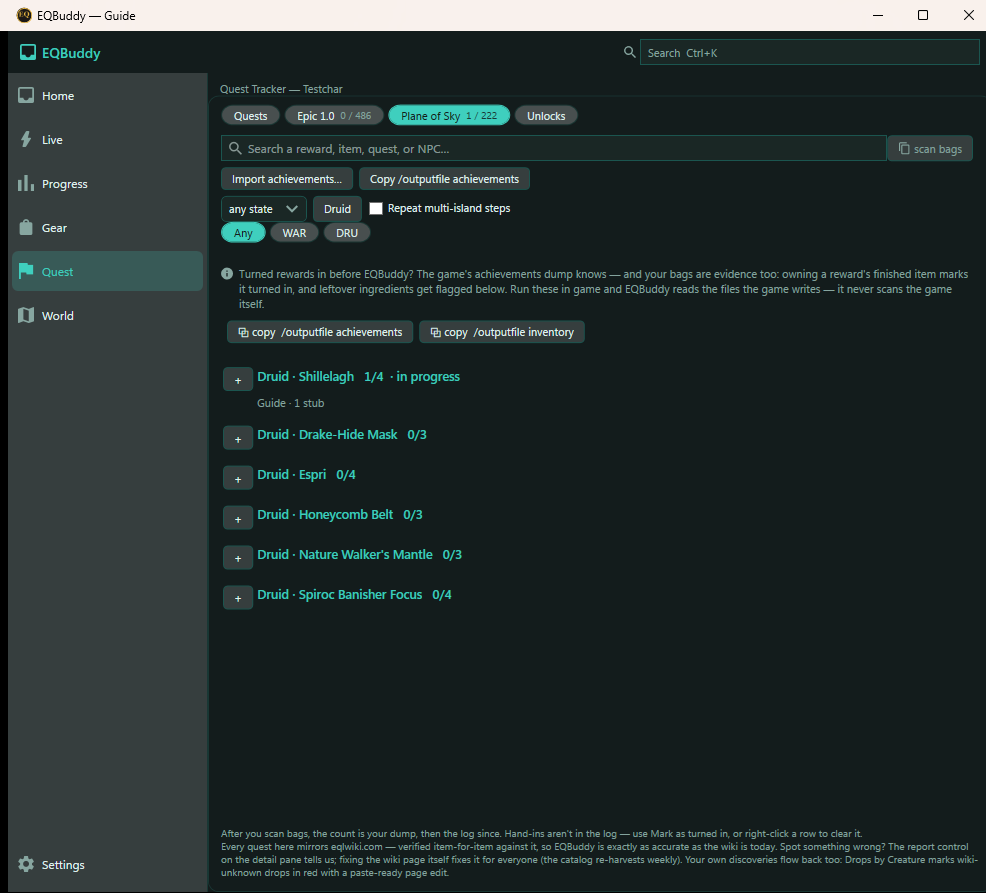
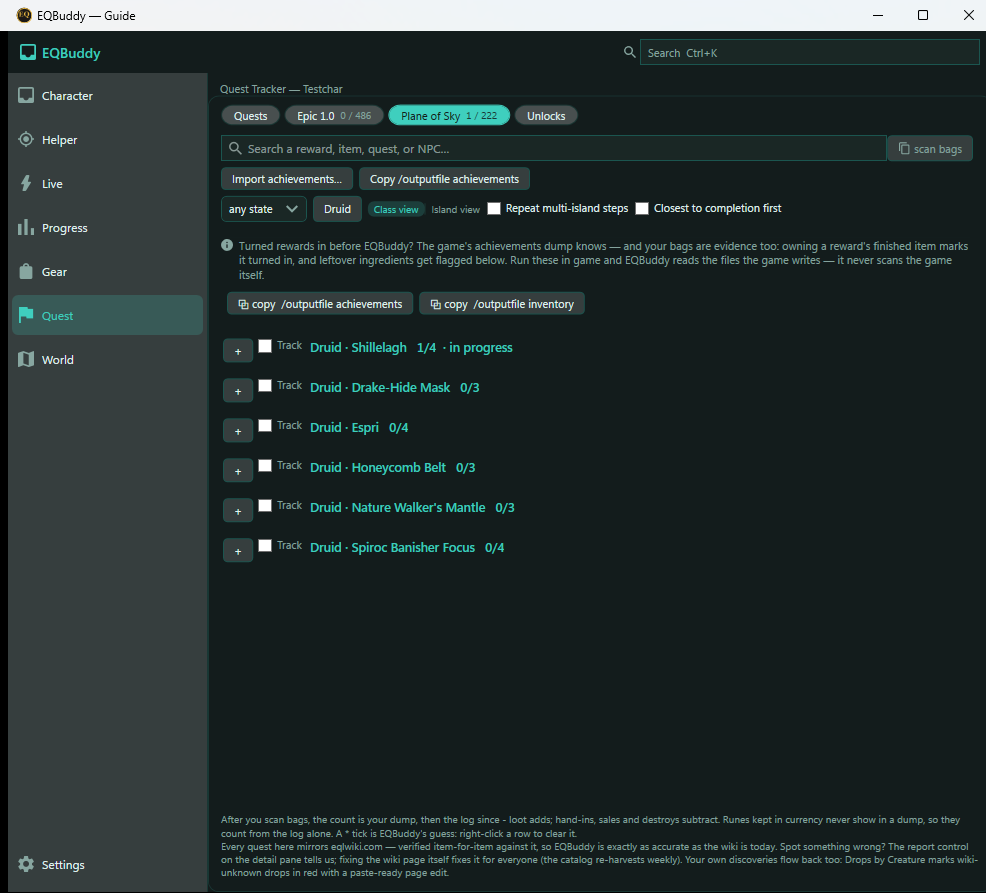
test(screenshots): DRA-4211 - re-shoot Sky guides with WhileHere hidden
The open While you're here block pushed the predicted rows out of a frame already at the 1000px ceiling. Folding left the departure notice, which still hid Island 6, so these three shots set EQBUDDY_WHILE_HERE=off.

diff --git a/src/EQBuddy/WhileHereView.cs b/src/EQBuddy/WhileHereView.cs
@@ -32,7 +32,13 @@ internal sealed class WhileHereView : Border
     private readonly TextBlock _heading;
     private readonly Button _fold;
     private string _signature = "";
-    private bool _open = true;
+    // Open unless the review hook says shut (DRA-4211). The player's fold is the same
+    // bit; the hook only chooses the starting value and never writes a setting.
+    // "off" draws nothing — the Sky guide shots, where the departure notice (outside
+    // the fold) pushed a predicted row out of the frame.
+    private readonly string? _reviewHook =
+        Environment.GetEnvironmentVariable(WhileHereReview.Variable);
+    private bool _open;
     private MainWindow? _main;
 
     /// <summary>Whether the departure notice's rows are shown — the door back to them. Reset by
@@ -97,6 +103,7 @@ internal sealed class WhileHereView : Border
         outer.Children.Add(_notice);
         outer.Children.Add(_body);
         Child = outer;
+        _open = !WhileHereReview.StartShut(_reviewHook);
     }
 
     /// <summary>Ask the producer and draw the answer — cheap when nothing moved, because the
@@ -111,6 +118,15 @@ internal sealed class WhileHereView : Border
     {
         Answer = answer;
         Left = left;
+        if (WhileHereReview.StartHidden(_reviewHook))
+        {
+            Visibility = Visibility.Collapsed;
+            StepsDrawn = 0;
+            LeftStepsDrawn = 0;
+            _open = false;
+            return;
+        }
+        Visibility = Visibility.Visible;
         if (left?.Key != _leftKey)
         {
             _leftKey = left?.Key ?? "";

diff --git a/tests/EQBuddy.Tests/WhileHereReviewTests.cs b/tests/EQBuddy.Tests/WhileHereReviewTests.cs
@@ -1,0 +1,43 @@
+using EQBuddy.UI.Shared;
+using Xunit;
+
+namespace EQBuddy.Tests;
+
+/// <summary>
+/// The review fold (DRA-4211). <c>shut</c> is the only value that starts the block
+/// folded, and the player default — unset — does not. Prove-failed by treating every
+/// value as shut: the unset row goes red.
+/// </summary>
+public sealed class WhileHereReviewTests
+{
+    [Theory]
+    [InlineData(null)]
+    [InlineData("")]
+    [InlineData("open")]
+    [InlineData("SHUT")]
+    [InlineData("0")]
+    public void AnythingButShutLeavesTheBlockOpen(string? value) =>
+        Assert.False(WhileHereReview.StartShut(value));
+
+    [Fact]
+    public void ShutStartsTheBlockFoldedAndStillDrawsIt()
+    {
+        Assert.True(WhileHereReview.StartShut(WhileHereReview.Shut));
+        Assert.False(WhileHereReview.StartHidden(WhileHereReview.Shut));
+    }
+
+    [Theory]
+    [InlineData(null)]
+    [InlineData("")]
+    [InlineData("shut")]
+    [InlineData("OFF")]
+    public void AnythingButOffStillDrawsTheBlock(string? value) =>
+        Assert.False(WhileHereReview.StartHidden(value));
+
+    [Fact]
+    public void OffDrawsNothingAndDoesNotCountAsTheFold()
+    {
+        Assert.True(WhileHereReview.StartHidden(WhileHereReview.Off));
+        Assert.False(WhileHereReview.StartShut(WhileHereReview.Off));
+    }
+}

diff --git a/src/EQBuddy.UI.Shared/WhileHereReview.cs b/src/EQBuddy.UI.Shared/WhileHereReview.cs
@@ -1,0 +1,29 @@
+namespace EQBuddy.UI.Shared;
+
+/// <summary>
+/// Review-only fold for the While you're here block (DRA-4211).
+///
+/// <para><c>EQBUDDY_WHILE_HERE=shut</c> starts the block folded, the same state the
+/// player's own fold control reaches. Unset, or any other value, leaves the player
+/// default (open). There is no settings key: a block about where you are now has no
+/// state worth persisting, and this hook must not invent one. A shipping run never
+/// sets the variable.</para>
+/// </summary>
+public static class WhileHereReview
+{
+    public const string Variable = "EQBUDDY_WHILE_HERE";
+
+    /// <summary>The only value that starts the block folded. Exact, so a nearby spelling
+    /// leaves the block open rather than folding a player's window. The departure notice
+    /// stays: it sits outside the fold on purpose.</summary>
+    public const string Shut = "shut";
+
+    /// <summary>The only value that draws nothing. The Sky guide shots need it: folding
+    /// still leaves the departure notice, and that notice pushed Island 6 out of
+    /// <c>shell-quests-sky-island</c> (DRA-4211).</summary>
+    public const string Off = "off";
+
+    public static bool StartShut(string? value) => value == Shut;
+
+    public static bool StartHidden(string? value) => value == Off;
+}

diff --git a/docs/TestPlan.md b/docs/TestPlan.md
@@ -107,7 +107,7 @@ where each of its assertions went.
 | **A guided quest folds, and starts folded** — a class's rewards read as one heading LINE each - a "+" leading the name, its counts beside it, and the caption (stubs/skipped only) under the NAME - and the "+" opens one. The control sits on the heading rather than under it (David, 2026-09-09) so a class costs six lines rather than twelve. The EXPANDED set is what persists (`AppSettings.GuideExpanded`), because an opt-out list would gain 95 entries the first time anyone scrolled and a newly authored class would arrive open | **Auto** — `GuideSurfaceParityTests` (the phone folds with the desktop); **Shot** — `shell-quests-sky-guide-folded` |
 | **A quest's heading says what it PAYS on hover** — "Rewards the X. Needs A, B." The phone has no hover, so it draws the line (trap 35); on a folded quest it is the only thing answering "what do I get" | **Auto** — `GuidePresentationTests.TheRewardSummaryNamesWhatYouGetAndWhatItCosts` |
 | **A quest's hover shows the REWARD ITEM, not a sentence about it** (David, 2026-09-10: "show the reward as it does in EQLWiki or when we mouse over any item in EQBuddy"). The item's own stats block, quoted verbatim from the shipped `ItemCatalog` - local, so a hover costs eqlwiki nothing - with what the quest costs under it. **All 95 Sky rewards have one** since DRA-47: `Windhowl/Spirit Render` - one hand-in paying two items - took the COMPOUND reading, so its card quotes BOTH items' blocks, each under its name (`GuidePresentation.RewardStats`), and falls back to the sentence only if either block is missing. `Harmonic Spear` was the other until the hover made it visible and Fable promoted the rename to `Spear of Harmony` (the wiki's own item title). **The phone cannot hover** (David: "mouse over on mobile won't work well"), so there the reward LINE is the control and a tap opens the block in place, independent of whether the quest's steps are open; open, the line shrinks to the item name so the cost is not said twice one line apart | **Auto** - `GuidePresentationTests.TheRewardCardIsTheItemsOwnStatsBlockQuotedVerbatim`, `.ARewardWeHaveNoStatsBlockForGetsNoCardAtAll`, `GuideCatalogTests.EverySkyRewardHasAStatsBlockForEveryItemItPays` (the missing list is NAMED and now empty, so a new miss fails rather than joining quietly - which is how the Bard rename and the Beastlord compound landed), `GuidePresentationTests.ACompoundRewardQuotesEveryItemsBlockOrNone`, `GuideSurfaceParityTests.TheRewardsStatsBlockReachesBothScreensFoldedOrOpen`. **Manual** - a desktop tooltip cannot be photographed; the phone half was driven in the real page through `scripts/mobile-harness.ps1` (hidden on arrival, opens on tap, survives a re-render, closes again) |
-| **The guide speaks in sentences, not labelled fields** — "Travel to Plane of Sky - Isle 5, then fight The Spiroc Lord." The verb follows the objective type, an unanswered half is dropped rather than composed round, and the detail line is suppressed when it restates the instruction | **Auto** — `GuidePresentationTests` (`TheHoverAnswersAllSixQuestionsWithoutLabellingThem`, `TheDirectionVerbFollowsWhatTheStepActuallyIs`, `DirectionsDropTheHalfTheStepDoesNotHave`, `TheDetailLineOnlyAppearsWhenItSaysSomethingNew`) |
+| **The guide speaks in sentences, not labelled fields** — "Travel to Plane of Sky - Isle 5, then find The Spiroc Lord." The verb follows the objective type (that step is Loot, so find; fight is the Kill verb), an unanswered half is dropped rather than composed round, and the detail line is suppressed when it restates the instruction | **Auto** — `GuidePresentationTests` (`TheHoverAnswersAllSixQuestionsWithoutLabellingThem`, `TheDirectionVerbFollowsWhatTheStepActuallyIs`, `DirectionsDropTheHalfTheStepDoesNotHave`, `TheDetailLineOnlyAppearsWhenItSaysSomethingNew`) |
 | **The active-step card names ONE next step per guided reward** — first in reading order that is not done, not skipped, and whose prerequisites are all DONE (a skipped prerequisite does not unlock a turn-in). All-done and all-skipped are different sentences | **Auto** — `GuidePresentationTests` (`NextIsTheFirstStepInReadingOrderThatIsNotDoneOrSkipped`, `AStepWhoseePrerequisitesAreNotDoneIsSkippedOverRatherThanOffered`, `AllDoneAndAllSkippedAreDifferentSentences`) |
 | **Skip is a first-class verb, and a different fact from done** — it lives in the per-character guide ledger for every objective including reward ones, strikes the row through on both screens, moves the card past it, and can be taken back | **Auto** — `GuideSurfaceParityTests.ASkipOnEitherScreenIsTheSameSkip`, `AFinishedGuidesCardNamesTheStateAndCarriesNoVerbs`; the repaint gate folds the ledger's skip list (trap 72) |
 | **The card is ONE answer carried on the group, not a rule each surface runs** — the phone names the same next step, and both move together when it is ticked | **Auto** — `GuideSurfaceParityTests.ThePhoneNamesTheSameNextStepAsTheDesktop`; **E2E** — `GuideRowsTests.TheCardNamesTheNextStepAndMovesWhenItIsDone` (summed id lengths, order-independent because the Sky layout re-sorts groups by progress); **Shot** — `shell-quests-sky-guide-card` |
@@ -230,7 +230,7 @@ where each of its assertions went.
 | **The zone join is exact title, then `ZoneMapFiles.IdentityKey`, and NOTHING looser; a non-place is refused** (`Core/WhileHerePlaces`). A step is placed by three structured sources and no fourth — its item's `ItemCatalog.DropZones` (+ `DropMobs` as the who), its quest's `StartZone` for a step done at a person, and the Sky quest's start zone for a step the router routes to a Sky home. **Prose is never parsed** and a guide's own `ZoneNames` is never read (an epic guide names ONE zone for a walk across a dozen), so Epic 1.0 steps and items whose pages name no drop zone are COUNTED as unplaced and said, never guessed (trap 73/50) | **Auto** — `WhileHereTests.CommonlandsIsNotWestCommonlandsThoughTheQuestSearchRuleSaysItTouches` (both directions, with `QuestEntry.TouchesZone`'s containment answering YES beside it as the exhibit), `ANonPlaceIsRefusedAsADropZone`, `ANonPlaceZoneAnswersNotAPlaceRatherThanNothingHere`, `NoZoneYetIsItsOwnStateNotNothingHere`, `ATrackedEpicSectionIsCountedAsUnplacedAndNeverGuessedIntoAZone`. **Prove-failed**: containment added to `SameZone` reddens 2 rows; the `IsPlace` refusal removed reddens 1 |
 | **Every word is `UI.Shared/WhileHerePresentation`'s; every cap says what it held back** (4 steps a group, 5 optional names, 3 creatures a row — trap 50), and nothing calls a camp safe, easy or survivable (HOME-006). The empty state names its reason — no zone yet / not a place / nothing placed here in EQBuddy's catalogs — never one silence | **Auto** — `WhileHereTests.EveryCapSaysWhatItHeldBack`, `NoSentenceCallsACampSafeEasyOrSurvivable`, `AZoneNoStepIsPlacedInAnswersNothingOpenHereNamingTheCatalog` |
 | **The phone draws the SAME answer, read-only** — `MainWindow.WhileHereNow` is the one builder of the inputs for the room AND the phone request (trap 33); `WhileHerePresentation.Groups` is the one arrangement both walk; every sentence rides the wire (trap 32); the quests fingerprint folds every drawn LINE (trap 72) | **Auto** — `WhileHereSurfaceParityTests` (groups, caps and sentences word for word; the empty state on the wire and no block for no answer; the fingerprint moving when one step leaves; the page forbid-scan plus the field must-list — it caught a stray phrase in a CSS comment on its first run) |
-| **The block draws what the producer answered, for the latest entered zone** | **E2E** — `WhileHereBlockTests`: a tracked quest, then "You have entered Commonlands." (the containment negative, compared against the producer's own answer) and "You have entered West Commonlands."; `shellWhileHereRequired` equals the producer's count and `shellWhileHereStepsDrawn` the capped rows of both step groups from the same dump (trap 56). **Shot** — `shell-quests-while-here` (predicted in its recipe; the first take capped at six and pushed the tabs past half-height, the cap is four since) |
+| **The block draws what the producer answered, for the latest entered zone** | **E2E** — `WhileHereBlockTests`: a tracked quest, then "You have entered Commonlands." (the containment negative, compared against the producer's own answer) and "You have entered West Commonlands."; `shellWhileHereRequired` equals the producer's count and `shellWhileHereStepsDrawn` the capped rows of both step groups from the same dump (trap 56). **Shot** — `shell-quests-while-here` (predicted in its recipe; the first take capped at six and pushed the tabs past half-height, the cap is four since). The three Sky guide shots pass `EQBUDDY_WHILE_HERE=off` (`WhileHereReview`: `shut` folds and keeps the departure notice, `off` draws nothing, anything else leaves the block open; no settings key) so their predicted rows stay in a frame that already sits at the 1000px ceiling. Folding was not enough: the notice pushed Island 6 out of `shell-quests-sky-island` (DRA-4211) |
 
 ### Before you leave (Delivery 4a D2, DRA-42)
 

diff --git a/docs/Architecture.md b/docs/Architecture.md
@@ -40,6 +40,8 @@ nothing about it is maintained here. See [LEGACY-V1.md](../LEGACY-V1.md), and
 files proved and where each assertion went.
 
 Sizes re-measured 2026-09-30 (DRA-42 D1, `.cs` under each project, excluding `obj/` and `bin/`).
+UI.Shared's row was re-measured 2026-11-09 (DRA-4211): 155 files, 26,238 lines. The 2026-09-30
+line count had drifted to the edge of the 10% band, and the review hook crossed it.
 An earlier set had drifted far enough to mislead — UI.Shared had doubled and the Avalonia
 build tripled since they were written — and then drifted 10-15% again in FOUR DAYS, which is
 why `DocumentationSizeTests` checks this table against the repo: a measurement nobody
@@ -48,7 +50,7 @@ re-measures rots without anyone touching it.
 | Project | Files | Lines | Role |
 |---|---:|---:|---|
 | `EQBuddy.Core` | 137 | 38,099 | Parsing, aggregation, settings, catalogs, wiki, the v1 profile import. No UI. |
-| `EQBuddy.UI.Shared` | 142 | 23,590 | View-model/formatting shared by the widget and the mobile projection. **Framework-free — enforced by `ArchitectureTests`.** |
+| `EQBuddy.UI.Shared` | 155 | 26,238 | View-model/formatting shared by the widget and the mobile projection. **Framework-free — enforced by `ArchitectureTests`.** |
 | `EQBuddy.Companion` | 19 | 6,063 | LAN HTTP+WebSocket server and the mobile page. **UI-toolkit-free on purpose** — which is what let the Avalonia build host it unchanged while that lane existed, and what keeps it honest now that only one does. |
 | `EQBuddy` | 122 | 43,192 | The WPF widget and its windows. Now the largest project in the repo. |
 
